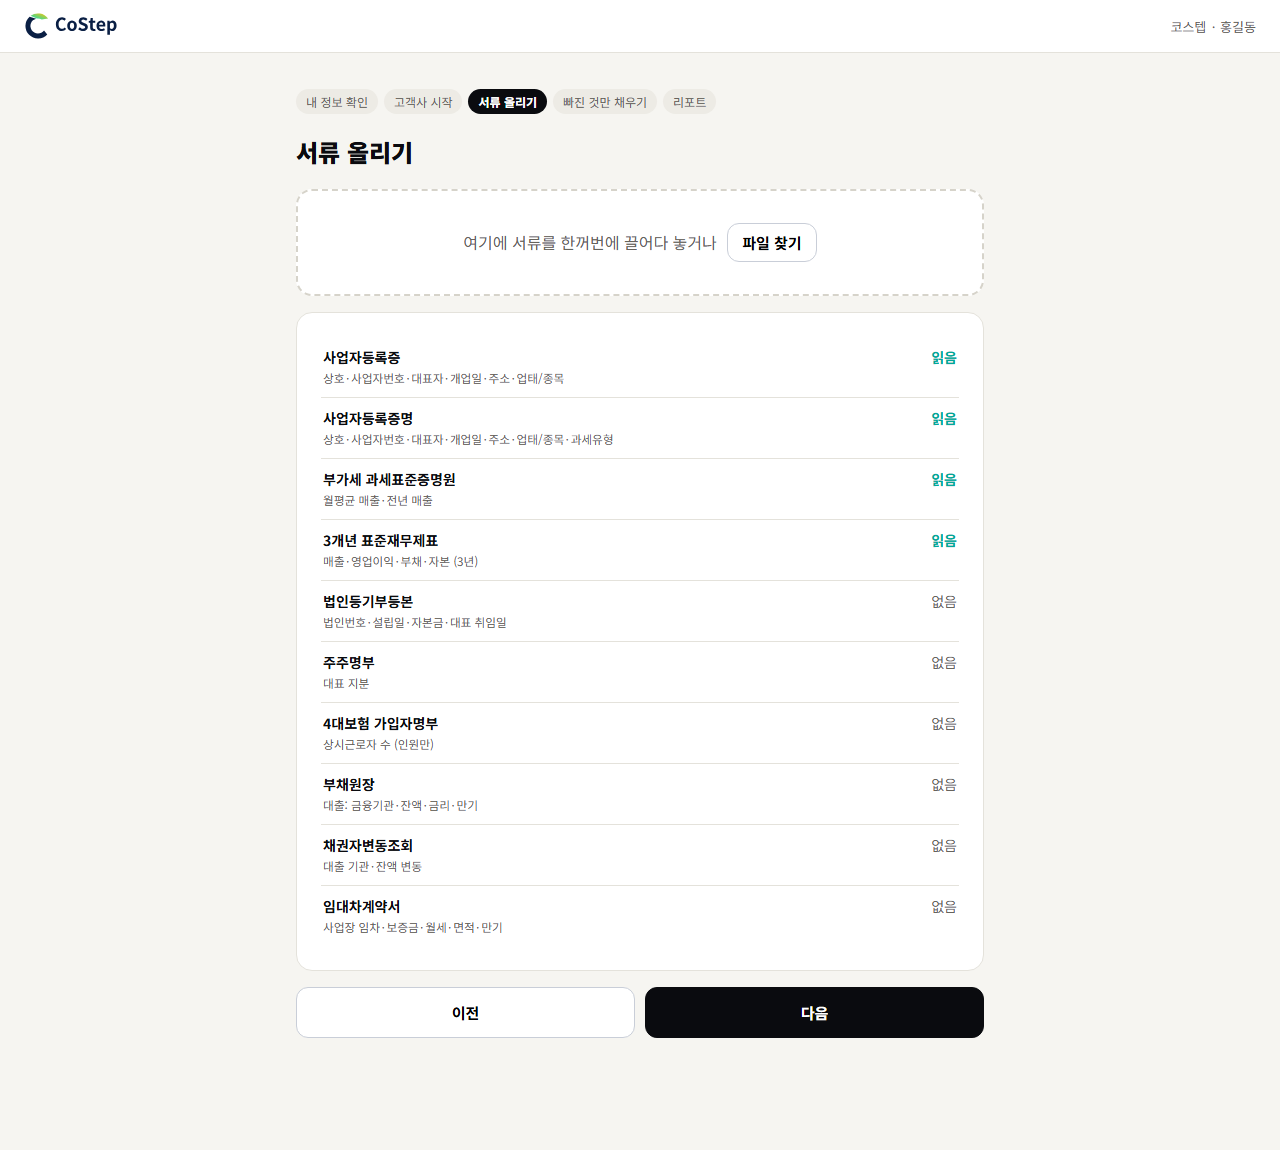
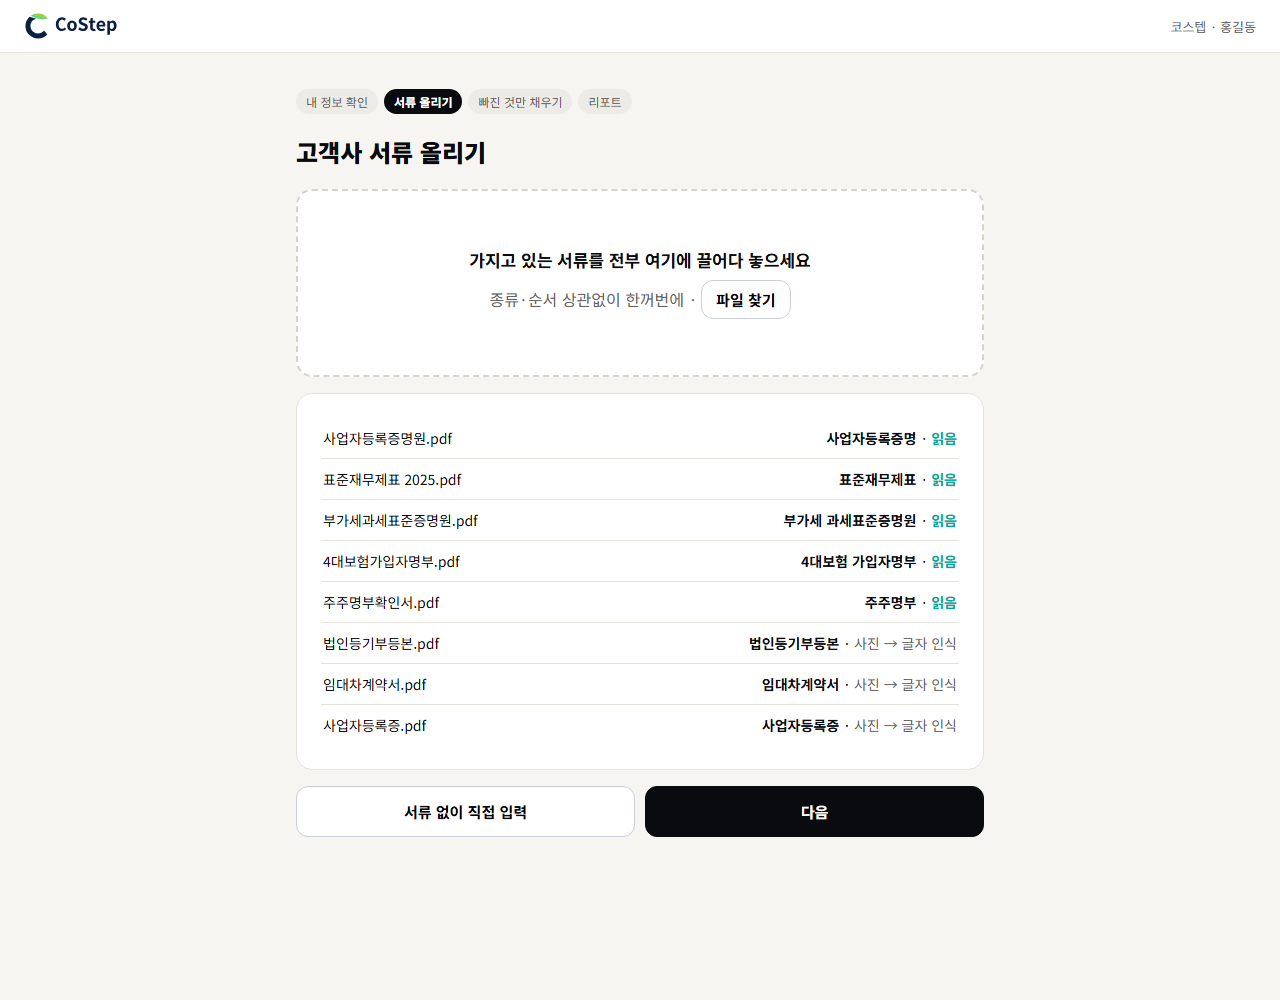
목업: 서류 한 구역 일괄 업로드·자동 분류, 샘플 구조 점검 (L-058)

diff --git a/design/mockup-intake.html b/design/mockup-intake.html
@@ -52,8 +52,8 @@
 <header><img src="logo/costep-logo-horizontal-color.svg" alt="로고"><span class="me">코스텝 · 홍길동</span></header>
 <main id="app"></main>
 <script>
-  const FLOW = ['내 정보 확인', '고객사 시작', '대표자', '사업장', '매출·비용', '대출·세금', '앞으로 계획', '리포트'];
-  const DOC_FLOW = ['내 정보 확인', '고객사 시작', '서류 올리기', '빠진 것만 채우기', '리포트'];
+  const FLOW = ['내 정보 확인', '서류 올리기', '대표자', '사업장', '매출·비용', '대출·세금', '앞으로 계획', '리포트'];
+  const DOC_FLOW = ['내 정보 확인', '서류 올리기', '빠진 것만 채우기', '리포트'];
   // 받는 서류와 채우는 칸 (사용자 지정 10종)
   const DOCS = [
     ['사업자등록증', '상호·사업자번호·대표자·개업일·주소·업태/종목', true],
@@ -76,12 +76,13 @@
   const SCREENS = {
     me: () => `${flowBar(FLOW, '내 정보 확인')}<h1>내 정보 확인</h1>
       <div class="card"><div class="me-line"><img src="logo/costep-logo-horizontal-color.svg" alt=""><div class="who"><b>홍길동 경영컨설턴트</b><div>코스텝 · 대표 박○○ · 문서번호 COSTEP</div><div>010-1234-5678 · hong@example.com</div></div></div></div>
-      <div class="row"><button class="btn" onclick="show('meEdit')">수정</button><button class="btn dark" onclick="show('start')">맞아요, 시작</button></div>`,
+      <div class="row"><button class="btn" onclick="show('meEdit')">수정</button><button class="btn dark" onclick="show('upload')">맞아요, 시작</button></div>`,
     meEdit: () => `${flowBar(FLOW, '내 정보 확인')}<h1>내 정보 수정</h1>
       <div class="card"><h2>소속 펌</h2><div class="grid">${f('상호', '코스텝')}${f('문서번호 접두어', 'COSTEP')}${f('대표', '박○○')}</div></div>
       <div class="card"><h2>내 정보</h2><div class="grid">${f('이름', '홍길동')}${f('직함', '경영컨설턴트')}${f('전화', '010-1234-5678')}${f('메일', 'hong@example.com')}</div></div>
       ${nav('', 'me', '저장')}`,
-    start: () => `${flowBar(FLOW, '고객사 시작')}<h1>고객사 시작</h1>
+    start: () => SCREENS.upload(),
+    _oldStart: () => `${flowBar(FLOW, '고객사 시작')}<h1>고객사 시작</h1>
       <div class="choice">
         <button onclick="mode='docs';show('upload')"><b>서류 올리고 시작</b><small>사업자등록증명·재무제표·부가세 증명 등을 올리면 자동으로 채우고, 빠진 것만 묻습니다</small></button>
         <button onclick="mode='direct';show('ceo')"><b>직접 입력</b><small>대표자 → 사업장 → 매출·비용 → 대출·세금 → 앞으로 계획 순서로 입력합니다</small></button>
@@ -102,10 +103,13 @@
     plan: () => `${flowBar(FLOW, '앞으로 계획')}<h1>앞으로 계획</h1>
       <div class="card"><div class="grid">${f('가장 급한 고민', '', '', true)}${f('필요 자금 (만원)')}${f('채용 계획 (명)')}${f('1년 목표 매출 (만원)', '', '', true)}</div></div>
       ${nav('debt', 'report', '리포트 만들기')}`,
-    upload: () => `${flowBar(DOC_FLOW, '서류 올리기')}<h1>서류 올리기</h1>
-      <div class="drop">여기에 서류를 한꺼번에 끌어다 놓거나 <button class="btn" style="flex:none;padding:8px 14px;margin-left:6px">파일 찾기</button></div>
-      <div class="card files">${DOCS.map(([n, fields, got]) => `<div><span><b>${n}</b><br><small style="color:var(--sub)">${fields}</small></span><span class="${got ? 'ok' : 'no'}">${got ? '읽음' : '없음'}</span></div>`).join('')}</div>
-      ${nav('start', 'missing')}`,
+    upload: () => `${flowBar(DOC_FLOW, '서류 올리기')}<h1>고객사 서류 올리기</h1>
+      <div class="drop" id="drop" style="padding:56px 16px" ondragover="event.preventDefault();this.style.borderColor='#00A898'" ondragleave="this.style.borderColor=''" ondrop="event.preventDefault();this.style.borderColor='';dropped()">
+        <div style="font-size:17px;font-weight:700;color:var(--text);margin-bottom:8px">가지고 있는 서류를 전부 여기에 끌어다 놓으세요</div>
+        종류·순서 상관없이 한꺼번에 · <button class="btn" style="flex:none;padding:8px 14px" onclick="dropped()">파일 찾기</button>
+      </div>
+      <div id="got"></div>
+      <div class="row"><button class="btn" onclick="show('ceo')">서류 없이 직접 입력</button><button class="btn dark" onclick="show('missing')">다음</button></div>`,
     missing: () => `${flowBar(DOC_FLOW, '빠진 것만 채우기')}<h1>빠진 것만 채우기</h1>
       <p class="note">서류로 23칸을 채웠습니다. 아래 6칸만 입력하면 리포트가 나옵니다.</p>
       <div class="card"><div class="grid">${f('대표자 연락처')}${f('상시근로자 (명)')}${f('임차료 (만원/월)')}${f('인건비 (만원/월)')}${f('가장 급한 고민', '', '', true)}${f('필요 자금 (만원)')}</div></div>
@@ -120,10 +124,21 @@
       </div>
       <div class="row"><button class="btn" onclick="show('start')">다른 고객사</button><button class="btn dark">전체 PDF 저장</button></div>`
   };
+  // 끌어다 놓으면 시스템이 종류를 알아서 나눈다 (목업: 예시 결과)
+  const SORTED = [
+    ['사업자등록증명원.pdf', '사업자등록증명', '읽음'], ['표준재무제표 2025.pdf', '표준재무제표', '읽음'],
+    ['부가세과세표준증명원.pdf', '부가세 과세표준증명원', '읽음'], ['4대보험가입자명부.pdf', '4대보험 가입자명부', '읽음'],
+    ['주주명부확인서.pdf', '주주명부', '읽음'], ['법인등기부등본.pdf', '법인등기부등본', '사진 → 글자 인식'],
+    ['임대차계약서.pdf', '임대차계약서', '사진 → 글자 인식'], ['사업자등록증.pdf', '사업자등록증', '사진 → 글자 인식']
+  ];
+  function dropped() {
+    document.getElementById('got').innerHTML = `<div class="card files">${SORTED.map(([n, t, st]) => `<div><span>${n}</span><span><b>${t}</b> · <span class="${st === '읽음' ? 'ok' : 'no'}">${st}</span></span></div>`).join('')}</div>`;
+  }
   function show(id) { document.getElementById('app').innerHTML = SCREENS[id](); window.scrollTo(0, 0); }
   const q = new URLSearchParams(location.search).get('s');
   if (q === 'upload' || q === 'missing') mode = 'docs';
   show(q || 'me');
+  if (q === 'upload') dropped();
 </script>
 </body>
 </html>

diff --git a/작업로그.md b/작업로그.md
@@ -358,3 +358,9 @@
 - 받는 서류(자동입력 대상, 사용자 지정): 사업자등록증, 사업자등록증명, 부가세 과세표준증명원, 3개년 표준재무제표, 법인등기부등본, 주주명부, 4대보험 가입자명부, 부채원장, 채권자변동조회, 임대차계약서
 - 왜: 사용자 "너무 복잡하고 글씨가 많아", "들어가자마자 내 정보를 확인", "서류 다 업로드하고 빠진부분만 모아보기 채워넣으면 리포트", 서류 목록 지정
 - 영향: 설계(DEVELOP_PLAN [5])의 8단계·과거/현재/미래 구획 화면은 이 단순 흐름으로 대체. 2차 서류 목록에 부채원장·채권자변동조회·사업자등록증(이미지 → OCR) 추가 필요
+
+### L-058 · 2026-10-13 · 의사결정 · 서류 먼저·한 구역에 한꺼번에 올리기, 실제 샘플 9건 구조 점검
+- 무엇: 목업 흐름 = 내 정보 확인 → **고객사 서류 올리기(한 구역에 종류 상관없이 끌어다 놓기, 시스템이 종류 자동 분류)** → 빠진 것만 채우기 → 리포트. 「서류 없이 직접 입력」은 보조 버튼
+- 샘플 점검(사용자 제공 실제 발급본 9건, 값은 출력·저장하지 않고 글자층·라벨 유무만 확인, 파일은 저장소에 복사하지 않음): 글자층 있음 6건 = 사업자등록증명원·표준재무제표 2건·부가세 과세표준증명원·4대보험 가입자명부·주주명부확인서 → 바로 읽기 가능 / 스캔 이미지 3건 = 법인등기부등본·사업자등록증·임대차계약서 → 글자 인식(OCR) 필요. 라벨 표기가 예상과 다른 것 있음(예: 사업자등록증명의 개업일·소재지·업태 라벨, 표준손익계산서의 영업이익 표기) → 실제 샘플로 라벨 사전 작성 필요
+- 왜: 사용자 "서류는 앞에 올려야 함 종류상관없이 올리게하고 분류는 너가 … 다 드래그 해서 넣어서 자동입력"
+- 영향: 서류 자동입력이 1차 흐름의 앞단이 됨 → OCR(스캔 3종)을 3차가 아닌 앞당겨야 함
